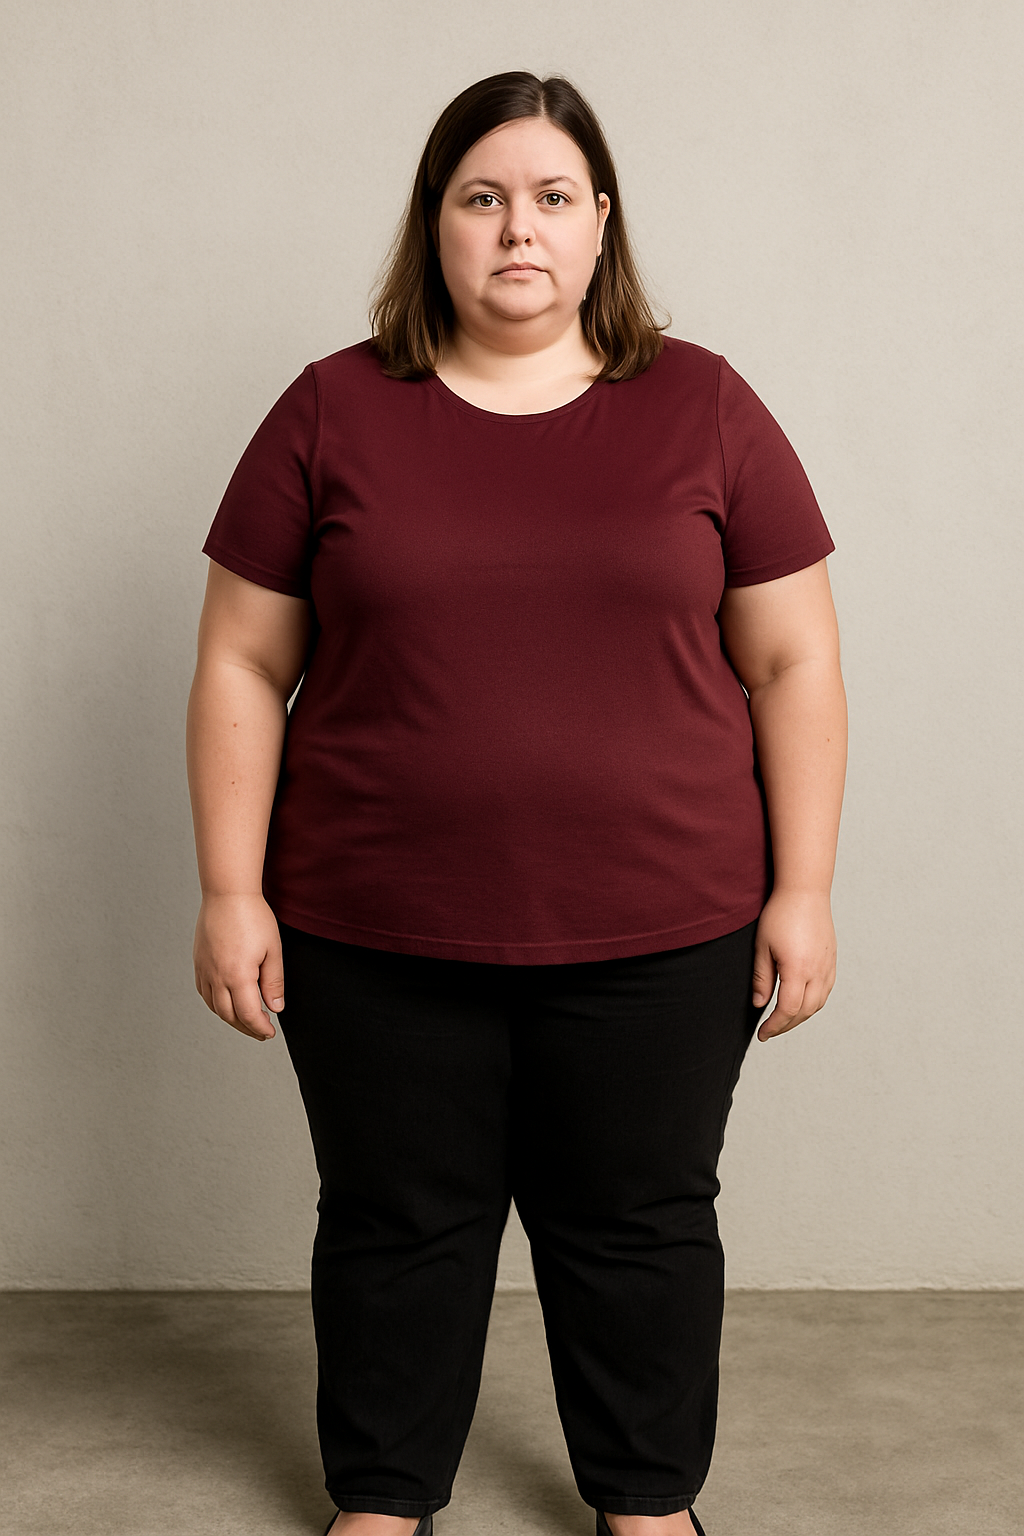
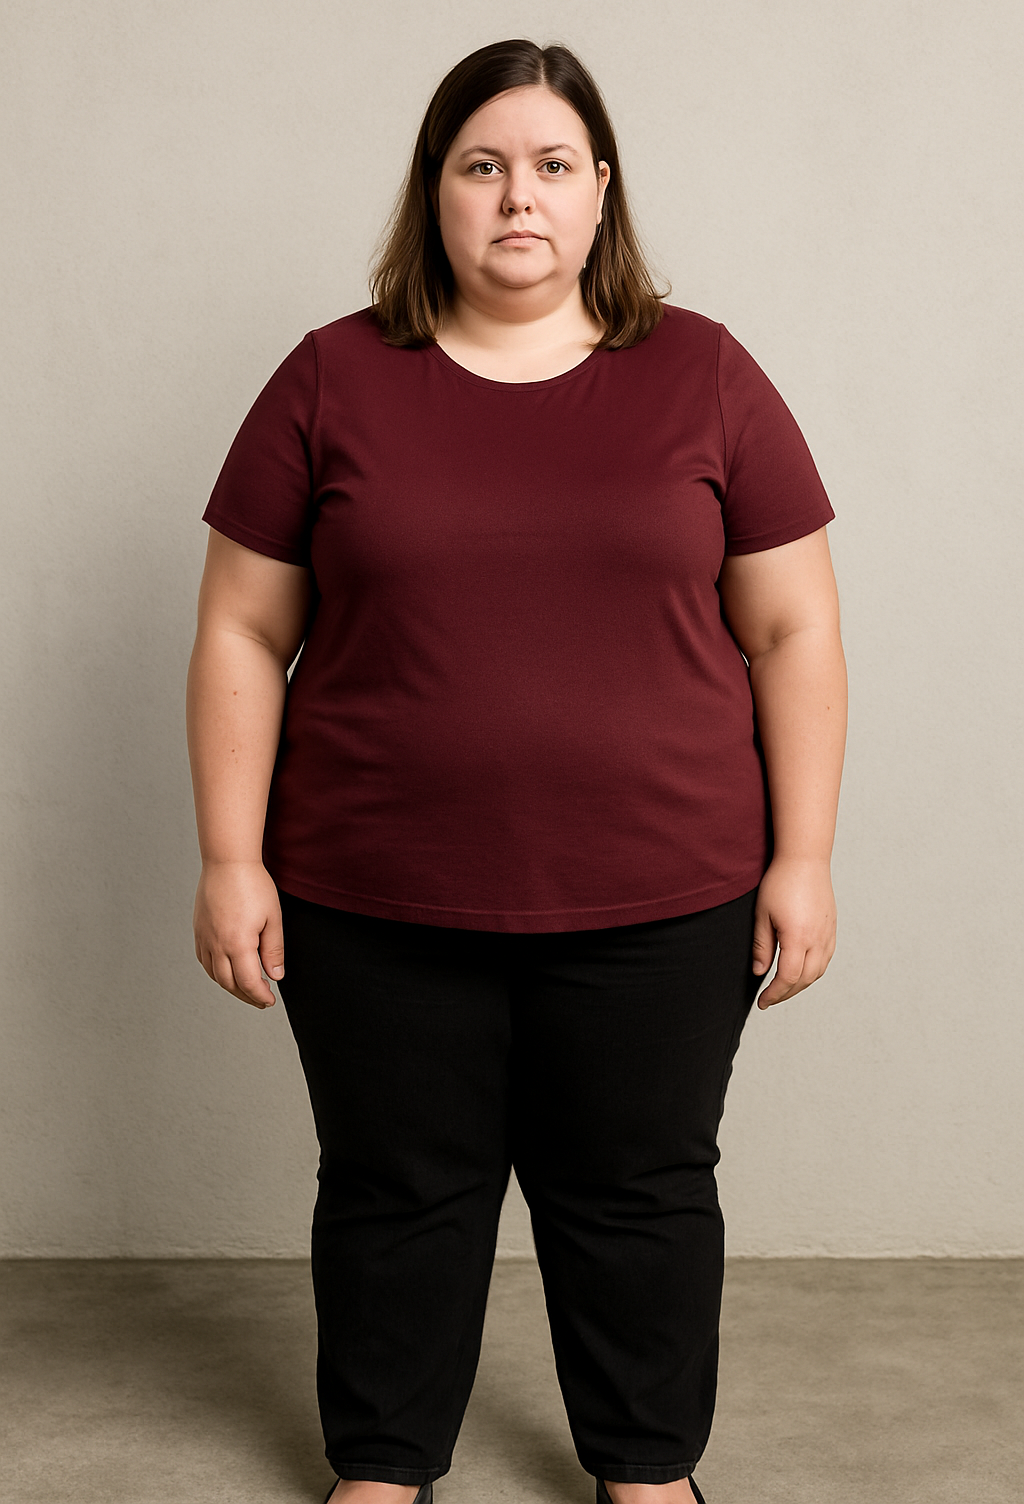
Add files via upload

diff --git a/Fitness - Carlos Silva/index.html b/Fitness - Carlos Silva/index.html
@@ -9,89 +9,8 @@
     <link rel="stylesheet" href="https://cdnjs.cloudflare.com/ajax/libs/font-awesome/6.4.0/css/all.min.css">
     <link href="https://fonts.googleapis.com/css2?family=Bebas+Neue&family=Montserrat:wght@400;700;900&display=swap"
         rel="stylesheet">
-    <style>
-        :root {
-            --black: #121212;
-            --red: #E50914;
-            --gray: #2E2E2E;
-        }
+    <link href="CSS/estilo.css" rel="stylesheet">
 
-        body {
-            font-family: 'Montserrat', sans-serif;
-            scroll-behavior: smooth;
-        }
-
-        .title-font {
-            font-family: 'Bebas Neue', cursive;
-        }
-
-        .hero-overlay {
-            background: rgba(0, 0, 0, 0.6);
-        }
-
-        .testimonial-card:hover {
-            transform: translateY(-10px);
-            box-shadow: 0 10px 25px rgba(0, 0, 0, 0.2);
-        }
-
-        .plan-card:hover {
-            transform: scale(1.05);
-            box-shadow: 0 10px 25px rgba(0, 0, 0, 0.3);
-        }
-
-        .pulse {
-            animation: pulse 2s infinite;
-        }
-
-        @keyframes pulse {
-            0% {
-                transform: scale(1);
-            }
-
-            50% {
-                transform: scale(1.05);
-            }
-
-            100% {
-                transform: scale(1);
-            }
-        }
-
-        .before-after-slider {
-            position: relative;
-            height: 400px;
-            overflow: hidden;
-        }
-
-        .before-after-slider img {
-            position: absolute;
-            width: 100%;
-            height: 100%;
-            object-fit: cover;
-        }
-
-        .slider-handle {
-            position: absolute;
-            width: 4px;
-            height: 100%;
-            background: var(--red);
-            left: 50%;
-            cursor: ew-resize;
-            z-index: 10;
-        }
-
-        .slider-handle::after {
-            content: '';
-            position: absolute;
-            width: 30px;
-            height: 30px;
-            border-radius: 50%;
-            background: var(--red);
-            top: 50%;
-            left: 50%;
-            transform: translate(-50%, -50%);
-        }
-    </style>
 </head>
 
 <body class="bg-gray-100">
@@ -175,8 +94,7 @@
 
             <div class="flex flex-col lg:flex-row items-center gap-12">
                 <div class="lg:w-1/2">
-                    <img src="IMG/Carlos Silva.jpg"
-                        alt="Personal Trainer" class="rounded-lg shadow-xl w-full">
+                    <img src="IMG/Carlos Silva.jpg" alt="Personal Trainer" class="rounded-lg shadow-xl w-full">
                 </div>
 
                 <div class="lg:w-1/2">
@@ -351,14 +269,20 @@
                     Veja as transformações dos meus alunos em apenas alguns meses de treino.
                 </p>
             </div>
+            <div class="before-after-slider relative flex justify-center items-center
+             mx-auto w-full max-w-3xl rounded-lg shadow-xl mb-12">
+                <!-- Before -->
+                <img src="IMG/Modelo 3.png" alt="Before"
+                    class="absolute top-0 left-0 w-full h-full object-contain object-center" />
 
-            <div class="before-after-slider rounded-lg shadow-xl mb-12">
-                <img src="IMG/Modelo 3.png" alt="Before" class="w-full h-full object-cover object-mid">
-                <div class="slider-handle"></div>
-                <img src="IMG/Modelo 4.png" alt="After" class="w-full h-full object-cover object-mid"
-                    style="clip-path: polygon(50% 0, 100% 0, 100% 100%, 50% 100%)">
+                <!-- Handle -->
+                <div class="slider-handle z-10"></div>
+
+                <!-- After -->
+                <img src="IMG/Modelo 4.png" alt="After"
+                    class="absolute top-0 left-0 w-full h-full object-contain object-center"
+                    style="clip-path: polygon(50% 0, 100% 0, 100% 100%, 50% 100%);" />
             </div>
-
 
             <div class="grid md:grid-cols-3 gap-8">
                 <div class="text-center">
@@ -512,11 +436,11 @@
 
                         <div class="mb-8">
                             <h4 class="text-xl font-bold mb-4 text-red-500">WhatsApp</h4>
-                            <a href="https://wa.me/5511999999999"
+                            <a href="https://wa.me/+5584991652870" target="_blank"
                                 class="flex items-center bg-green-600 hover:bg-green-700 px-6 py-4 rounded-lg transition">
                                 <i class="fab fa-whatsapp text-2xl mr-4"></i>
                                 <div>
-                                    <div class="font-bold">(11) 99999-9999</div>
+                                    <div class="font-bold">(84) 99165-2870</div>
                                     <div class="text-sm">Clique para conversar</div>
                                 </div>
                             </a>
@@ -531,7 +455,7 @@
                                 </a>
                                 <a href="#"
                                     class="bg-gray-700 hover:bg-gray-600 w-12 h-12 rounded-full flex items-center justify-center transition">
-                                    <i class="fab fa-facebook-f text-xl"></i>
+                                    <i class="fab fa-tiktok text-xl"></i>
                                 </a>
                                 <a href="#"
                                     class="bg-gray-700 hover:bg-gray-600 w-12 h-12 rounded-full flex items-center justify-center transition">
@@ -561,17 +485,13 @@
         <div class="container mx-auto px-4">
             <div class="flex flex-col md:flex-row justify-between items-center">
                 <div class="mb-6 md:mb-0">
-                    <a href="#" class="title-font text-3xl text-red-600">CARLOS<span
-                            class="text-white">SILVA</span></a>
+                    <a href="#" class="title-font text-3xl text-red-600">CARLOS<span class="text-white">SILVA</span></a>
                     <p class="mt-2 text-gray-400">Transformando vidas através do fitness.</p>
                 </div>
 
                 <div class="flex space-x-6">
                     <a href="#" class="text-gray-400 hover:text-white transition">
                         <i class="fab fa-instagram text-xl"></i>
-                    </a>
-                    <a href="#" class="text-gray-400 hover:text-white transition">
-                        <i class="fab fa-facebook-f text-xl"></i>
                     </a>
                     <a href="#" class="text-gray-400 hover:text-white transition">
                         <i class="fab fa-youtube text-xl"></i>
@@ -584,7 +504,7 @@
 
             <div class="border-t border-gray-800 mt-8 pt-8 text-center text-gray-500">
                 <p>"A disciplina é a ponte entre metas e realizações." - Jim Rohn</p>
-                <p class="mt-4">© 2023 PowerTrainer. Todos os direitos reservados.</p>
+                <p class="mt-4">© 2025 Carlos Silva. Todos os direitos reservados.</p>
             </div>
         </div>
     </footer>

diff --git a/Fitness - Carlos Silva/CSS/estilo.css b/Fitness - Carlos Silva/CSS/estilo.css
@@ -1,0 +1,88 @@
+      :root {
+          --black: #121212;
+          --red: #E50914;
+          --gray: #2E2E2E;
+      }
+
+      body {
+          font-family: 'Montserrat', sans-serif;
+          scroll-behavior: smooth;
+      }
+
+      .title-font {
+          font-family: 'Bebas Neue', cursive;
+      }
+
+      .hero-overlay {
+          background: rgba(0, 0, 0, 0.6);
+      }
+
+      .testimonial-card:hover {
+          transform: translateY(-10px);
+          box-shadow: 0 10px 25px rgba(0, 0, 0, 0.2);
+      }
+
+      .plan-card:hover {
+          transform: scale(1.05);
+          box-shadow: 0 10px 25px rgba(0, 0, 0, 0.3);
+      }
+
+      .pulse {
+          animation: pulse 2s infinite;
+      }
+
+      @keyframes pulse {
+          0% {
+              transform: scale(1);
+          }
+
+          50% {
+              transform: scale(1.05);
+          }
+
+          100% {
+              transform: scale(1);
+          }
+      }
+
+      .before-after-slider {
+          position: relative;
+          overflow: hidden;
+          height: auto;
+          max-height: 100vh;
+          aspect-ratio: 3 / 4;
+          display: flex;
+          justify-content: center;
+          align-items: center;
+      }
+
+      .before-after-slider img {
+          position: absolute;
+          width: 100%;
+          height: 100%;
+          object-fit: contain;
+          object-position: center center;
+          /* <-- centraliza horizontal e verticalmente */
+      }
+
+      .slider-handle {
+          position: absolute;
+          width: 4px;
+          height: 100%;
+          background: var(--red);
+          left: 50%;
+          cursor: ew-resize;
+          z-index: 10;
+      }
+
+      .slider-handle::after {
+          content: '';
+          position: absolute;
+          width: 30px;
+          height: 30px;
+          border-radius: 50%;
+          background: var(--red);
+          top: 50%;
+          left: 50%;
+          transform: translate(-50%, -50%);
+      }
